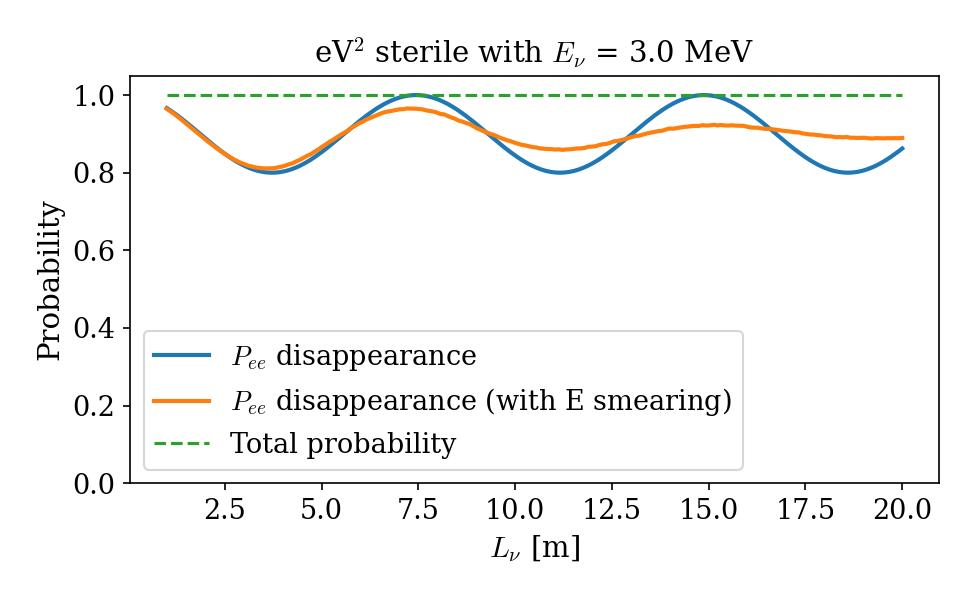
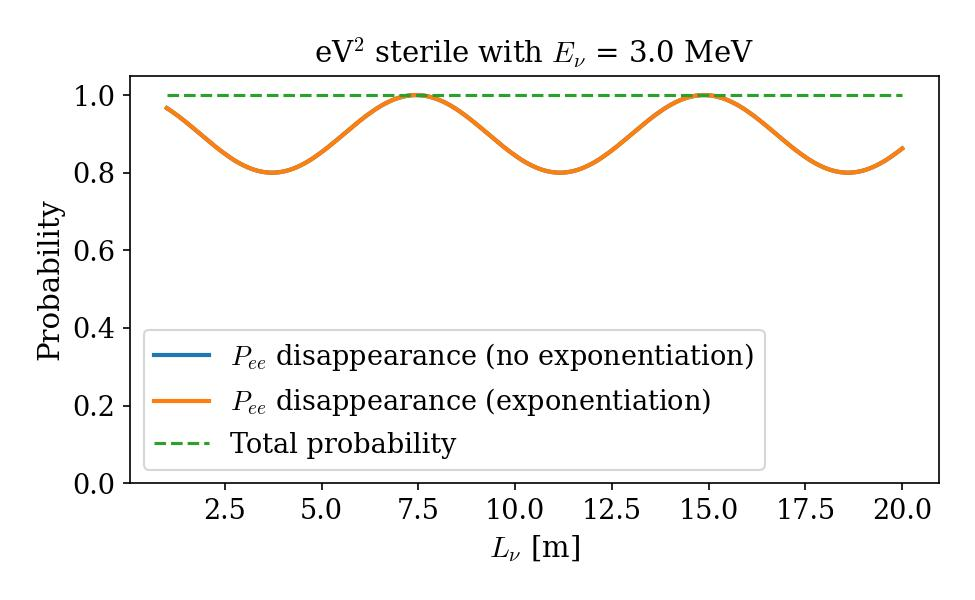
adding helper

diff --git a/src/nu_waves/propagation/oscillator.py b/src/nu_waves/propagation/oscillator.py
@@ -3,6 +3,7 @@ from nu_waves.hamiltonian.base import Hamiltonian
 from nu_waves.backends import make_numpy_backend
 from nu_waves.matter.profile import MatterProfile
 from nu_waves.utils.units import KM_TO_EVINV
+from nu_waves.utils.units import GEV_TO_EV
 
 
 class Oscillator:
@@ -240,14 +241,12 @@ class Oscillator:
             E_flat = Es.reshape(-1)
             L_flat = Ls.reshape(-1)
 
-        KM = xp.asarray(KM_TO_EVINV, dtype=self.backend.dtype_real)
-
         # ---------- evolution operator ----------
-        if getattr(self, "_use_matter", False):
-            if getattr(self, "_matter_profile", None) is None:
+        if self._use_matter:
+            if self._matter_profile is None:
                 rho, Ye = self._matter_args
                 H = self.hamiltonian.matter_constant(E_flat, rho_gcm3=rho, Ye=Ye, antineutrino=antineutrino)
-                HL = H * (L_flat * KM)[:, xp.newaxis, xp.newaxis]
+                HL = H * (L_flat * KM_TO_EVINV)[:, xp.newaxis, xp.newaxis]
                 if self.use_exponentiation:
                     S = linalg.matrix_exp((-1j) * HL)
                 else:
@@ -268,7 +267,7 @@ class Oscillator:
                     Hk = self.hamiltonian.matter_constant(
                         E_flat, rho_gcm3=layer.rho_gcm3, Ye=layer.Ye, antineutrino=antineutrino
                     )
-                    HLk = Hk * (dL_list[k] * KM)[:, xp.newaxis, xp.newaxis]
+                    HLk = Hk * (dL_list[k] * KM_TO_EVINV)[:, xp.newaxis, xp.newaxis]
                     if self.use_exponentiation:
                         Sk = linalg.matrix_exp((-1j) * HLk)
                     else:
@@ -281,13 +280,13 @@ class Oscillator:
             # vacuum
             if self.use_exponentiation:
                 H = self.hamiltonian.vacuum(E_flat, antineutrino=antineutrino)
-                HL = H * (L_flat * KM)[:, xp.newaxis, xp.newaxis]
+                HL = H * (L_flat * KM_TO_EVINV)[:, xp.newaxis, xp.newaxis]
                 S = linalg.matrix_exp((-1j) * HL)
             else:
                 U = xp.asarray(self.hamiltonian.U, dtype=self.backend.dtype_complex)
                 m2 = xp.asarray(self.hamiltonian.m2_diag, dtype=self.backend.dtype_real)
-                phase = (KM * L_flat / E_flat)[:, None] * m2[None, :]
-                phases = xp.astype(xp.exp((-1j) * phase), self.backend.dtype_complex, copy=False)
+                phase = 0.5 * (KM_TO_EVINV * L_flat / (E_flat*GEV_TO_EV))[:, None] * m2[None, :]
+                phases = xp.exp((-1j) * phase)
                 Uc = xp.conjugate(U).T
                 U_phase = U[xp.newaxis, :, :] * phases[:, xp.newaxis, :]
                 S = U_phase @ Uc

diff --git a/examples/vacuum_2flavors.py b/examples/vacuum_2flavors.py
@@ -9,8 +9,8 @@ import nu_waves.utils.flavors as flavors
 import nu_waves.utils.style
 
 # toggle GPU
-# torch_backend = None
-torch_backend = make_torch_backend(seed=0, use_complex64=True)
+torch_backend = None
+# torch_backend = make_torch_backend(seed=0, use_complex64=True)
 
 nBins_L = 200
 nSamples_E = 10000
@@ -82,8 +82,9 @@ def energy_sampler_sqrt(E_center, n, a=0.008):
     return out
 
 # osc.baseline_sampler = baseline_sampler_gauss
-osc.energy_sampler = energy_sampler_sqrt
-osc.n_samples = nSamples_E
+# osc.energy_sampler = energy_sampler_sqrt
+# osc.n_samples = nSamples_E
+osc.use_exponentiation = True
 P_damp = osc.probability(
     L_km=L_list, E_GeV=E_fixed,
     flavor_emit=flavors.electron,
@@ -98,8 +99,8 @@ P_damp = osc.probability(
 # ----------------------------------------------------------------------
 plt.figure(figsize=(6.5, 4.0), dpi=150)
 
-plt.plot(L_list*1000, P, label=r"$P_{e e}$ disappearance", lw=2)
-plt.plot(L_list*1000, P_damp, label=r"$P_{e e}$ disappearance (with E smearing)", lw=2)
+plt.plot(L_list*1000, P, label=r"$P_{e e}$ disappearance (no exponentiation)", lw=2)
+plt.plot(L_list*1000, P_damp, label=r"$P_{e e}$ disappearance (exponentiation)", lw=2)
 plt.plot(L_list*1000, [1]*len(L_list), "--", label="Total probability", lw=1.5)
 
 plt.xlabel(r"$L_\nu$ [m]")
